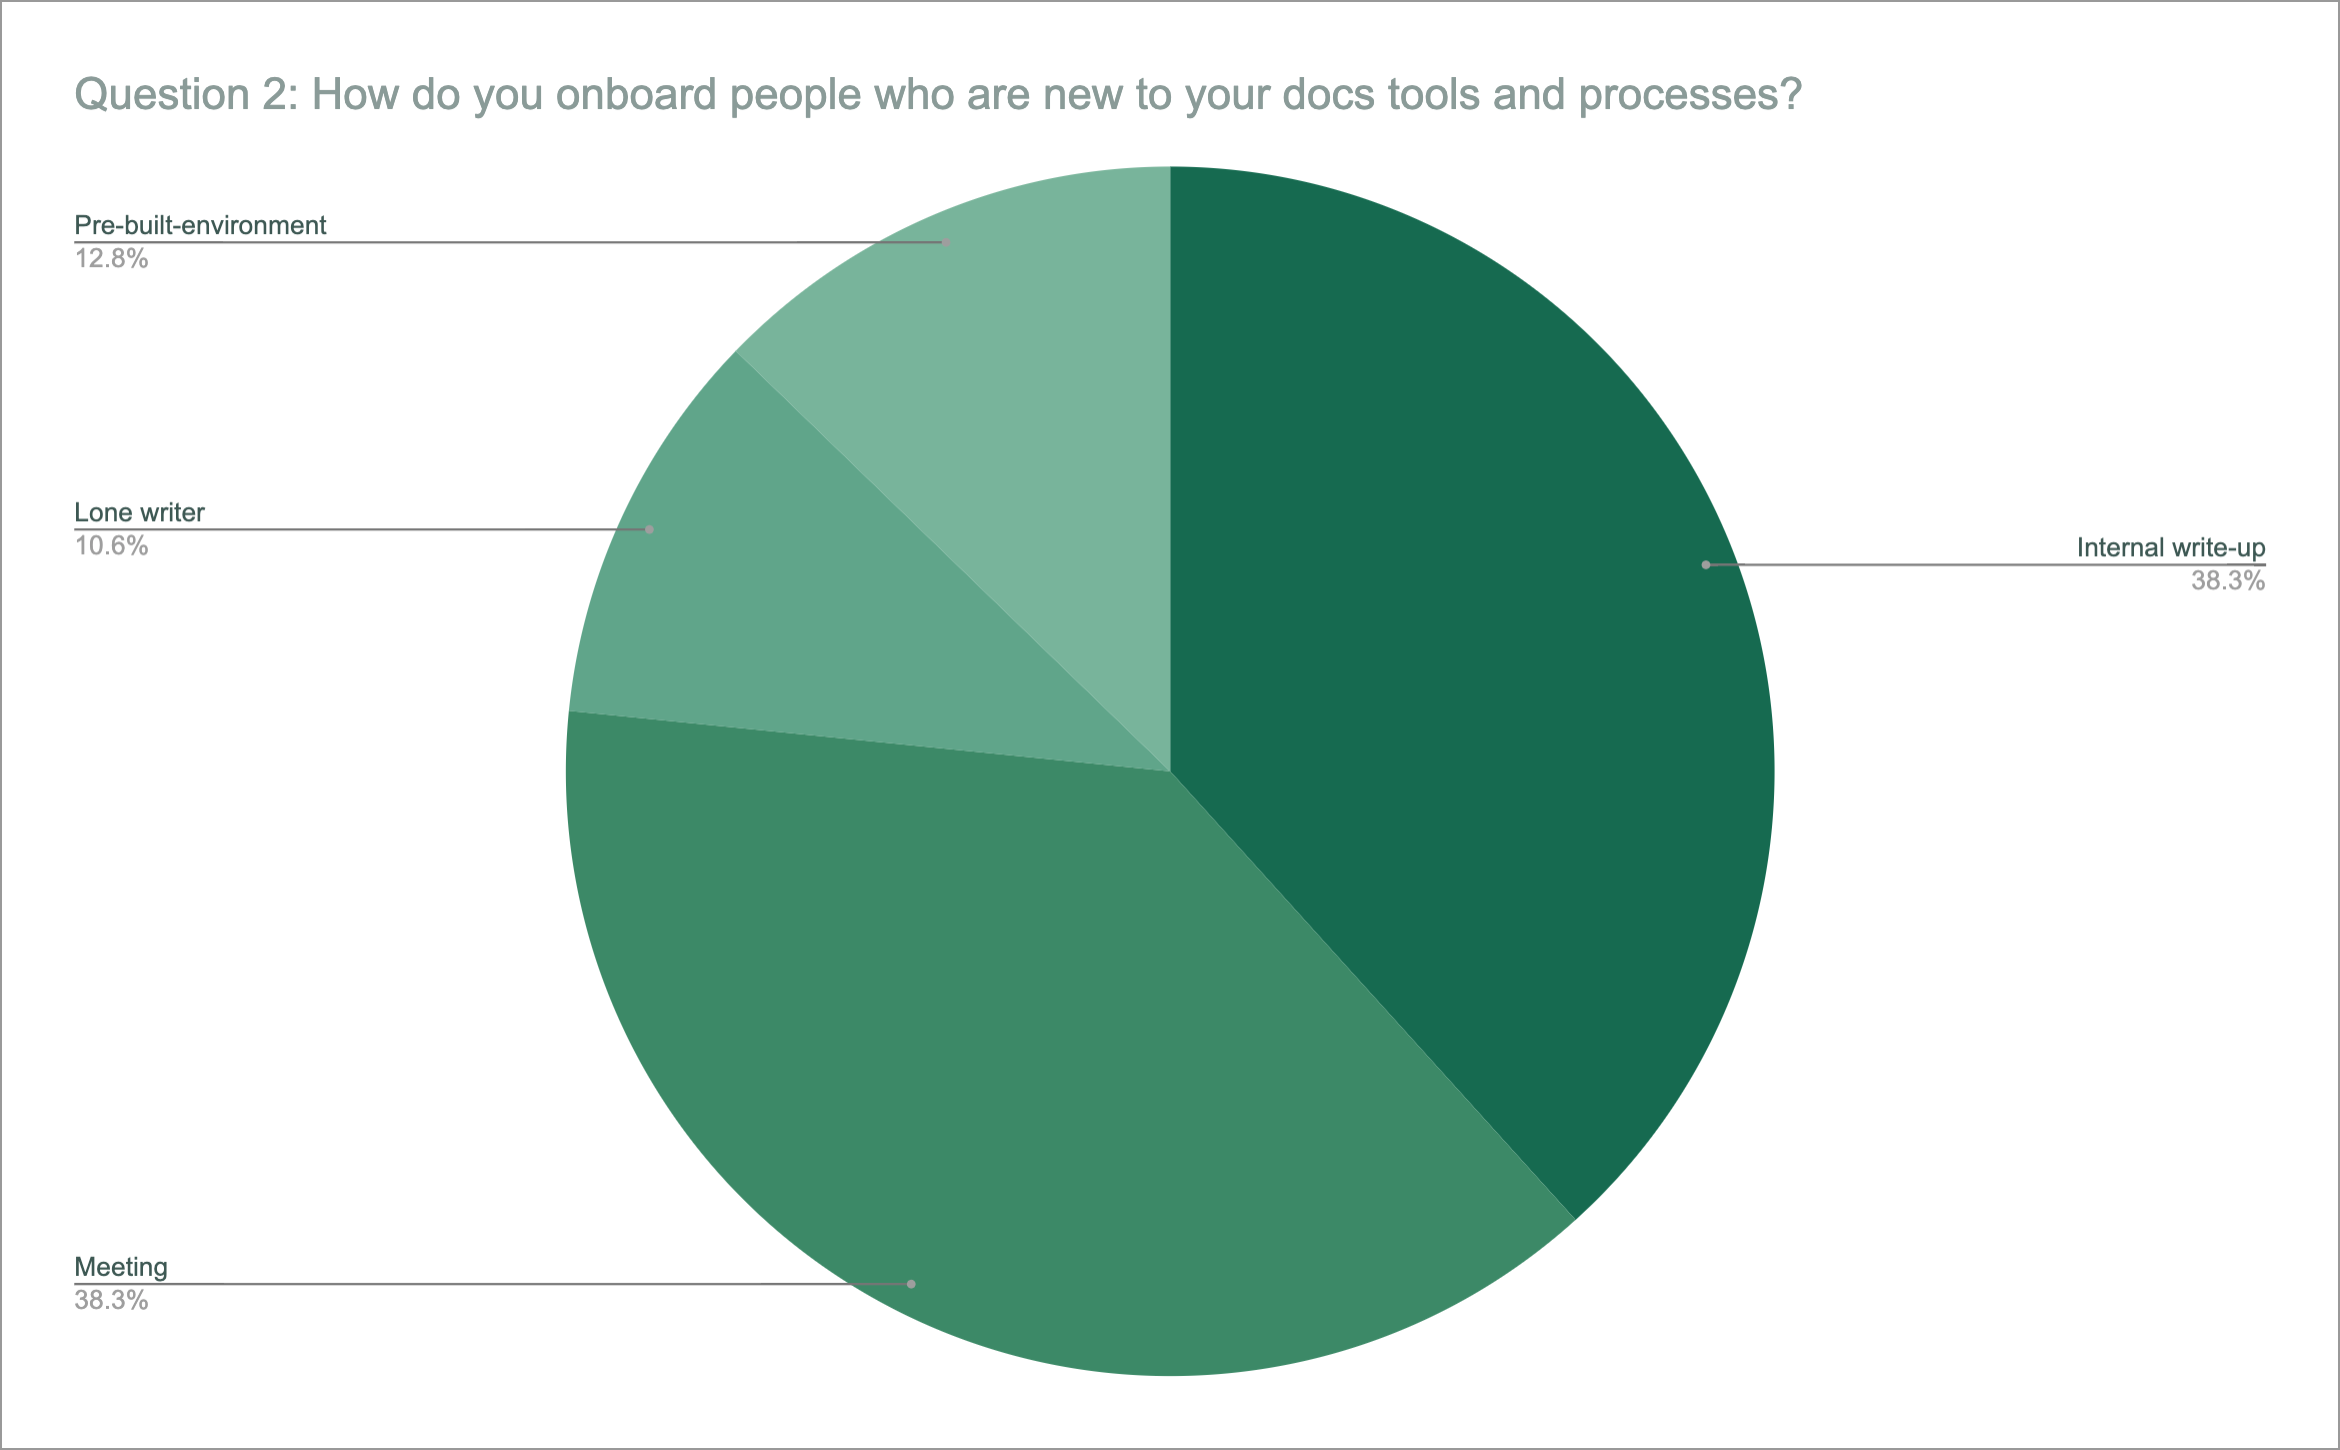
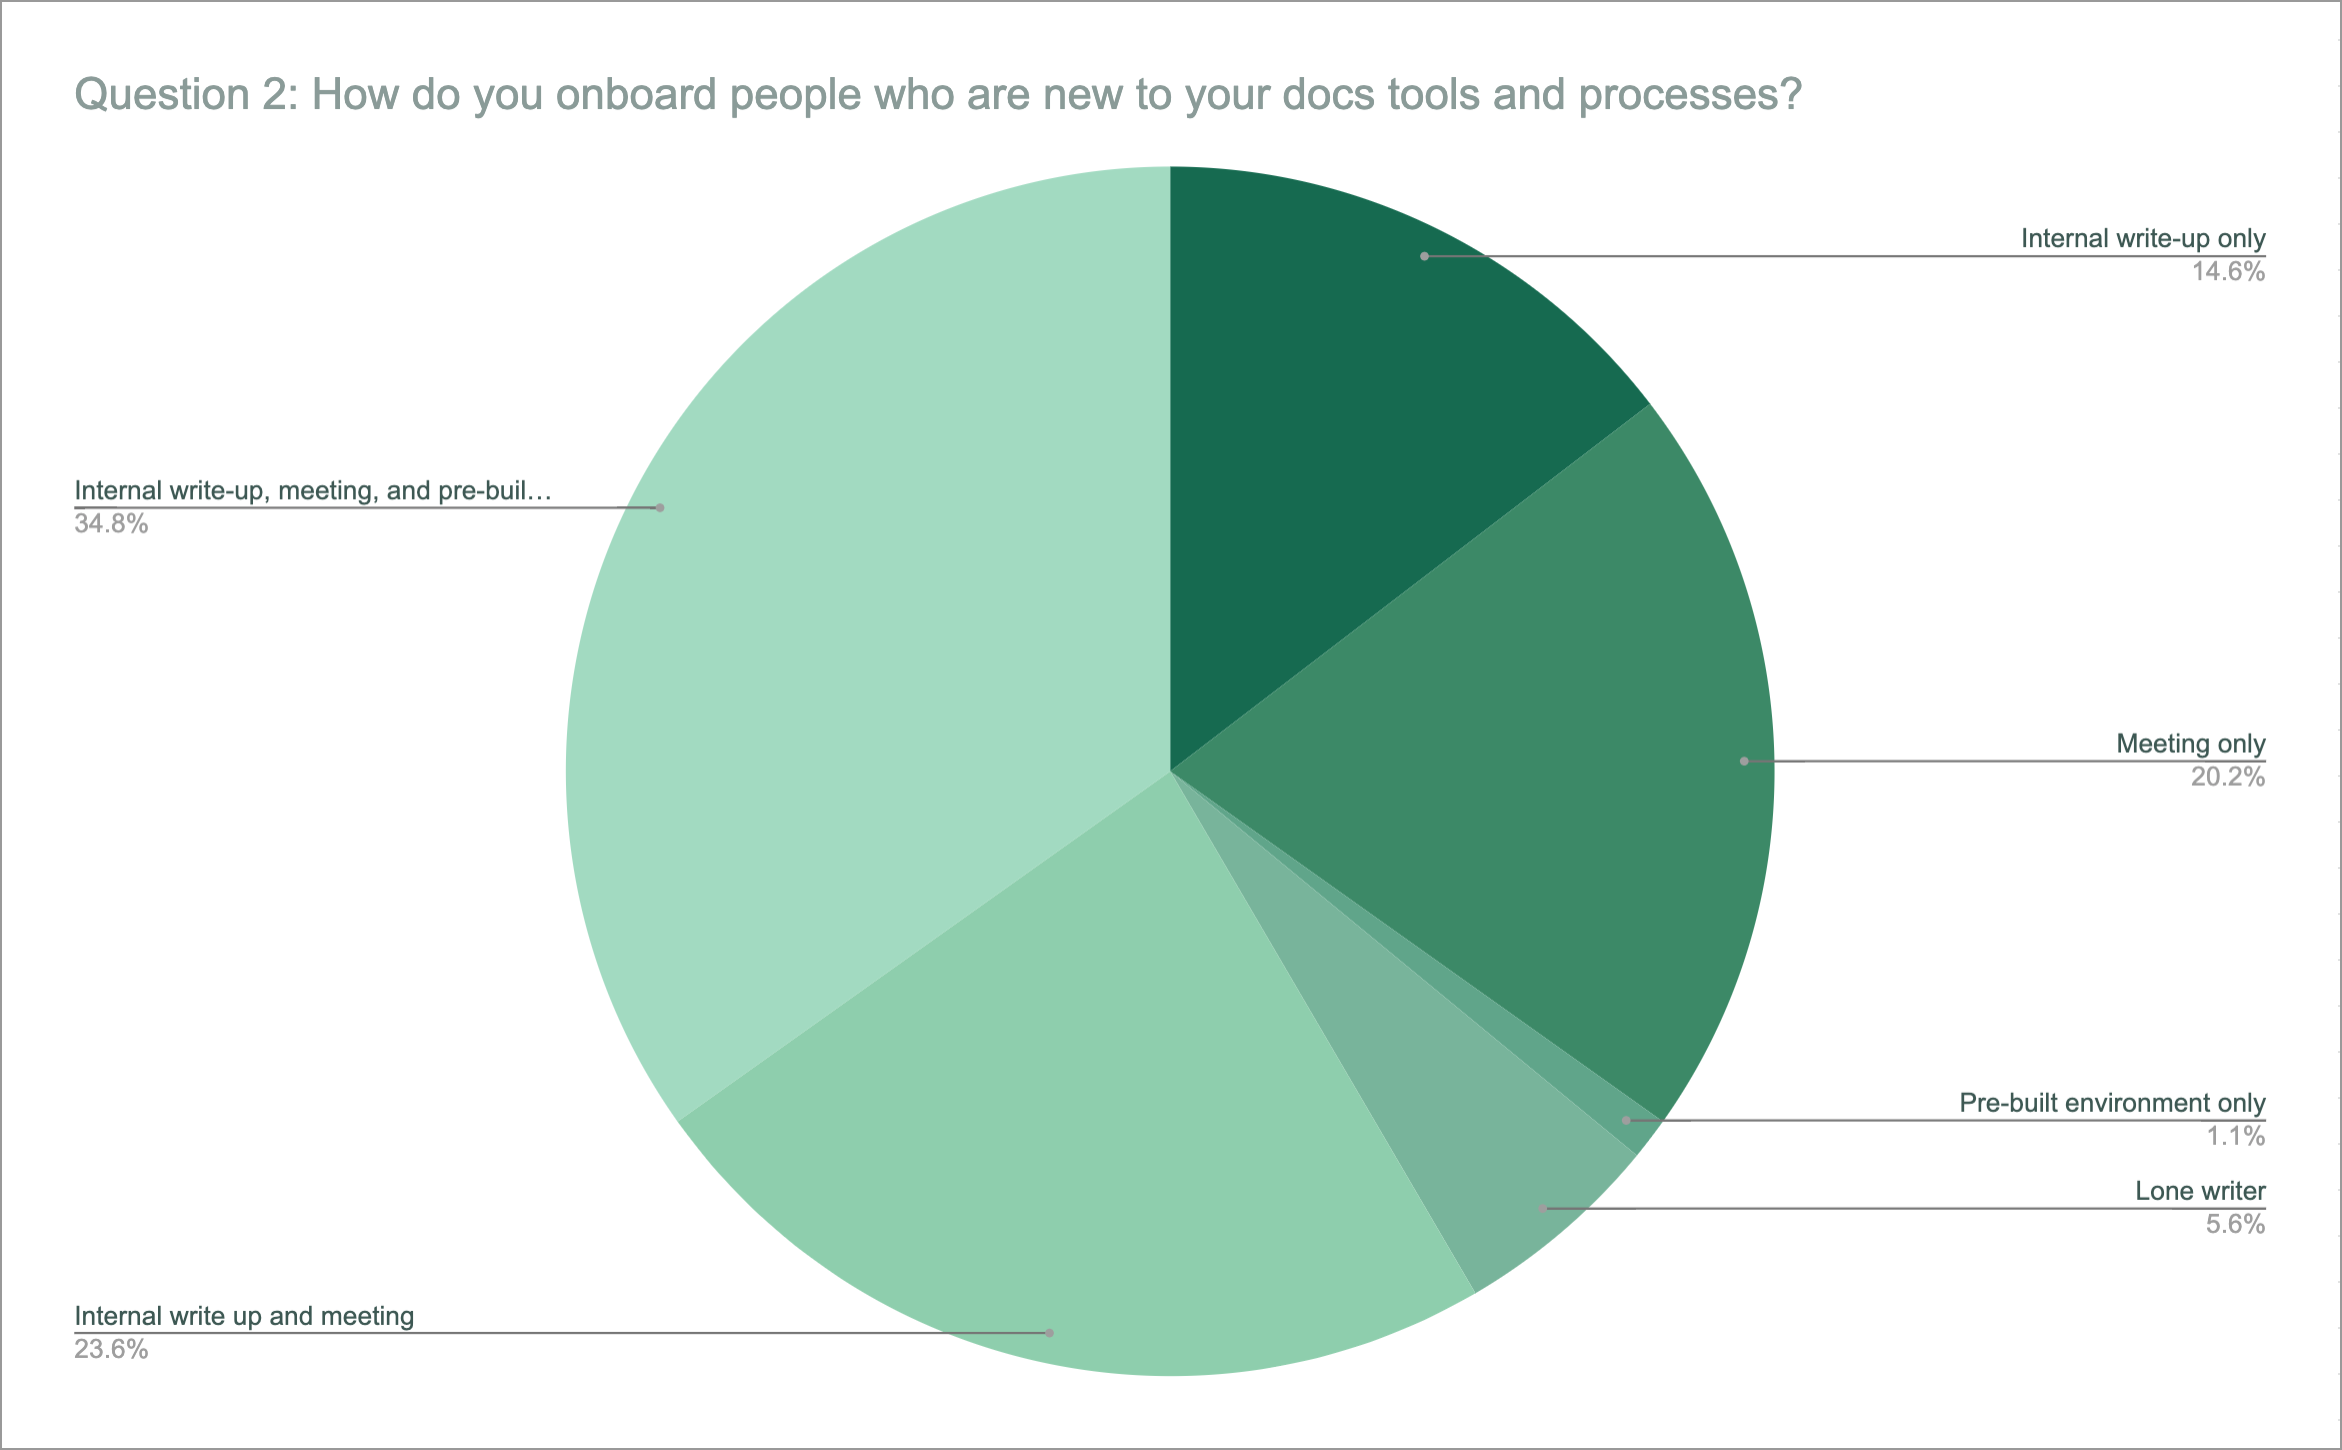
Updates with survey analysis and updated charts

diff --git a/_posts/articles/2021-01-06-survey-results-docs-like-code.md b/_posts/articles/2021-01-06-survey-results-docs-like-code.md
@@ -13,7 +13,7 @@ comments: false
 share: true
 ---
 
-I asked three questions in a survey emailed to my mailing list and got more than 30 responses.
+I asked three questions in a survey emailed to my mailing list and got nearly 40 responses.
 
 Here are the three questions:
 
@@ -23,18 +23,65 @@ Question 2: How do you onboard people who are new to your docs tools and process
 
 Question 3: What tips or discussions (from any source) was most helpful to you when learning docs-as-code techniques?
 
-Docs-as-code processes are still new in the field and it seems many of the responses are split, with no overwhelming patterns in any single area. Here are the charts for the first two questions.
+Docs-as-code processes are still new in the field and it seems many of the responses are split, with no overwhelming patterns in any single area. Let's look into the data and charts for the first two questions.
 
+## Question 1: When you talk to your leaders about docs-as-code, can they describe the benefits as well as the difficulties?
 
 ![](/images/survey-charts/leadership-docs-tools.png)
 
+**Legend**
+26.8% Yes, my leader started our processes and makes it possible for us to use our current tools and processes.
+19.5% Yes, my leader can provide their leadership complete justification for our choices.
+19.5% No, I work in an environment where my tool selection does not need justification from a management chain.
+19.5% No, my leadership chain doesn't really know what I do or why I use certain tools.
+14.6% It depends on which leader I'm talking to.
 
+In a way, nearly all the responses could be viewed as "leadership either supports the selection does not get in the way of tool selection." For about 65% of the responses, either leadership can justify, started the processes, or isn't a deciding factor.
+
+Looking at the number of lone writer responses in the next question, this indicator makes sense as five of thirty-five respondents noted that they were the only writer in the organization, which would make up 14% of all responses. Let's take a look.
+
+## Question 2: How do you onboard people who are new to your docs tools and processes?
 
 ![](/images/survey-charts/how-onboard-docs.png)
 
+**Legend**
+14.6% Internal write-up only
+20.2% Meeting only
+1.1% Pre-built environment only
+5.6% Lone writer
+23.6% Internal write up and meeting
+34.8% Internal write-up, meeting, and pre-built environment
 
-For question three, I wanted to share any nuggets found in the answers here on the Docs Like Code site, since the goal for this site is to learn these techniques together and share our stories. Here are some highlights. No, this is not a section simply to point to the book, rather, it's to show that having additional resources including people you can ask questions is super valuable when learning how to treat docs like code.
+My favorite answer to this question was one I hadn't considered, where the person is a lone writer, but works with the devs to get the docs working in the source code repo. It's along the lines of "It's complicated."
+
+> "Nothing, I'm the only person working on docs. The developers required documentation to work with our first attempt because we tried to use tool stacks that crossed different departments between authoring and publishing. Extensive process documentation was required in order for devs to figure out how the docs were to fit together despite the fact that we used markdown and the docs were in the source code repo. We switched tracks when the pain of the "throw it over the wall approach got too big. At which point we started a whole new docs site on a JAM stack platform. But still... Baby-steps."
+
+## Question 3: What tips or discussions (from any source) was most helpful to you when learning docs-as-code techniques?
+
+For question three, I wanted to share any nuggets found in the answers here on the Docs Like Code site, since the goal for this site is to learn these techniques together and share our stories. Here are some highlights.
+
+> "Write the Docs community. Hustling the hard streets of Google search results. Your book!"
+
+> "Trail and Error - lots of searching. Reliance on internal Dev Ops"
+
+> "Familiarity with Git was key - I had already used Git on a smaller scale for personal projects and that helped me become comfortable when I had to  collaborate with other writers/devs. And even then I still had to constantly refer to Git-related resources online to make sure I wasn't messing anything up."
+
+> "Your Docs as Code book was helpful, for certain.  Recently, Frank Miller and Rik Page had two broad discussions about using GIT in lieu of a cCMS (see Git Happens [part 1](https://vimeo.com/431452486) and [part 2](https://vimeo.com/449217243)). The main fear I have is different technical aptitudes and willingness to learn of the writers with whom I work. Some will adapt to GIT easily, while others will struggle mightily."
+
+> "It's still writing. If you don't have documentation as business goal with the processes to produce it - e.g. customer expectation to receive docs with a new release so docs as part of Definition of Done - then docs in code won't help.
+Also, engineers won't write unless they're told to. You need a push down from leadership. Don't try to grassroots it."
+
+> "show people that the browser<>Git edit flow is ok, but IDE<>Git<>Browser is far better... show people how much support a good IDE plugin can give (asciidoctor plugin for IntelliJ has so many great features)"
+
+> "We use GitHub already so the argument to switch was easy. When I told the dev teams they didn’t need to use different tools, they were sold. I did, however, make a big mistake early on in the transition. I failed to point out that any non-code related docs (team/training content) should be separate from the code-related docs (readme.md) because not everyone had GitHub work accounts. As a result, non-dev employees couldn’t access anything. That’s not a result of the technique but bad planning on my part. Other than that, it’s been a lean and efficient methodology for how we document our dev projects."
+
+> "Putting the documentation in source code where the developers can get to it. Attempting to docs-as-code with 2 stacks requiring a conversion from markdown to HTML fragments ingested by a little known CMS (MODX) as the published content was a poorly thought out approach. I tried to warn the guys about this - especially since we didn't have a way to duplicate the nested CMS structure required on the publishing end... But we lived with it for a year before it became painfully obvious that another solution was required."
 
 
+> "I studied your shared extent extensively when I was starting out. Other courses include Peter Gruenbaum's set on Udemy, Tom Johnson's blog, and chats in the Write the Docs Slack channel."
+
+> "Sarah Parson’s Write the Docs presentation on static site generators and Tom Johnson’s explanation of his Documentation Jekyll theme."
+
+This is not a section simply to point to the [Docs Like Code book](https://docslikecode.com/book/) as a resource, rather, it's to show that having additional resources including people you can ask questions is super valuable when learning how to treat docs like code. I'm grateful to the Write the Docs community and people who are also writing their experiences here and on other sites so we can all learn together. Thanks to everyone who shared their experiences and hard-earned wisdom!
 
 {% include sign-up.html %}
